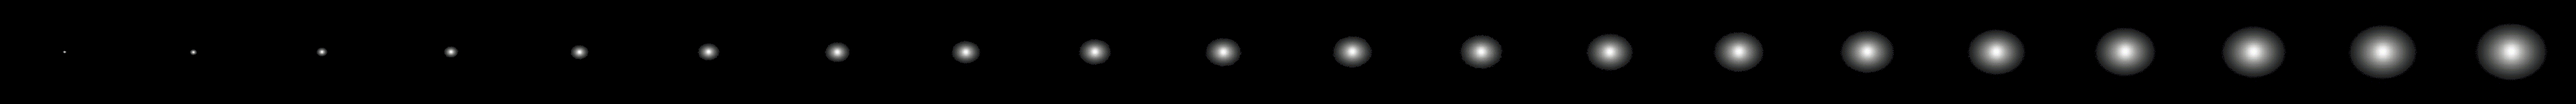
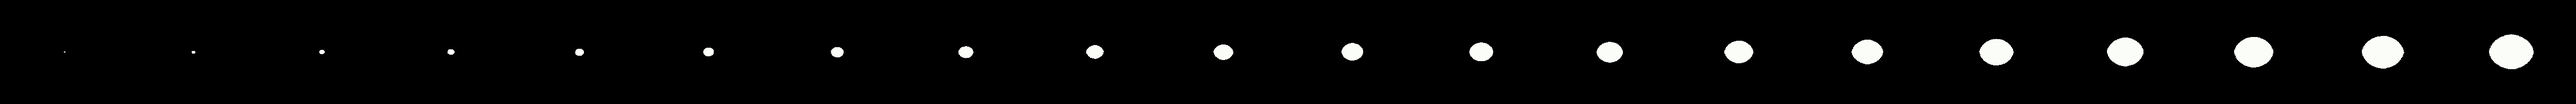
- Added Fu's modified lights. - Added Adam85's autogen.sh to warn about new build method. - Fixed position of light particles. - Added generation of shadows for the bullets and missles

diff --git a/src/NetPanzer/Weapons/Weapon.cpp b/src/NetPanzer/Weapons/Weapon.cpp
@@ -46,14 +46,17 @@ void Weapon::init()
 //    gShellPackedSurface.loadPAK("pics/particles/shells/pak/shells.pak");
 
     gMissleMediumPackedSurface.loadPNGSheet("pics/particles/missles/misslesMedium.png", 14, 14, 360);
+    gMissleMediumShadowSurface.createShadow(gMissleMediumPackedSurface);
     gMissleMediumPackedSurface.setColorkey();
 //    gMissleMediumPackedSurface.setOffsetCenter();
 
     gMissleSmallPackedSurface.loadPNGSheet("pics/particles/missles/misslesSmall.png", 14, 14, 360);
+    gMissleSmallShadowSurface.createShadow(gMissleSmallPackedSurface);
     gMissleSmallPackedSurface.setColorkey();
 //    gMissleSmallPackedSurface.setOffsetCenter();
 
     gShellPackedSurface.loadPNGSheet("pics/particles/shells/shells.png", 14, 14, 360);
+    gShellShadowSurface.createShadow(gShellPackedSurface);
     gShellPackedSurface.setColorkey();
 //    gShellPackedSurface.setOffsetCenter();
 

diff --git a/src/NetPanzer/Weapons/MissleWeapon.cpp b/src/NetPanzer/Weapons/MissleWeapon.cpp
@@ -43,11 +43,11 @@ MissleWeapon::MissleWeapon(UnitID owner, unsigned short owner_type_id, unsigned 
     // Set the correct missle type.
     if ( size ) {
         shell.setData(gMissleMediumPackedSurface);
-        shellShadow.setData(gMissleMediumPackedSurface);
+        shellShadow.setData(gMissleMediumShadowSurface);
 
     } else {
         shell.setData(gMissleSmallPackedSurface);
-        shellShadow.setData(gMissleSmallPackedSurface);
+        shellShadow.setData(gMissleSmallShadowSurface);
     }
 
     shell.setFrame(getGoalAngle(start, end));

diff --git a/src/NetPanzer/Particles/FlashParticle2D.cpp b/src/NetPanzer/Particles/FlashParticle2D.cpp
@@ -46,8 +46,9 @@ FlashParticle2D::FlashParticle2D(	const fXYZ  &pos,
 //---------------------------------------------------------------------------
 void FlashParticle2D::init()
 {
-    staticPackedFlash.loadPNGSheet("pics/particles/lights/flash2.png", 240, 149, 20);
+    staticPackedFlash.loadPNGSheet("pics/particles/lights/flash2.png", 240, 194, 20);
     staticPackedFlash.setColorkey();
+//    staticPackedFlash.setAlpha();
 //    staticPackedFlash.setOffsetCenter();
 //    staticPackedFlash.brigthenFrames();
 } // end FlashParticle2D::init

diff --git a/src/NetPanzer/Weapons/WeaponGlobals.hpp b/src/NetPanzer/Weapons/WeaponGlobals.hpp
@@ -27,8 +27,11 @@ extern int gMissleThrustForce;
 extern int gBulletVelocity;
 
 extern Surface gShellPackedSurface;
+extern Surface gShellShadowSurface;
 extern Surface gMissleSmallPackedSurface;
+extern Surface gMissleSmallShadowSurface;
 extern Surface gMissleMediumPackedSurface;
+extern Surface gMissleMediumShadowSurface;
 extern Surface gMissleThrustPackedSurface;
 extern Surface gMissleGroundLightPackedSurface;
 

diff --git a/src/NetPanzer/Weapons/ShellWeapon.cpp b/src/NetPanzer/Weapons/ShellWeapon.cpp
@@ -53,7 +53,7 @@ ShellWeapon::ShellWeapon(UnitID owner, unsigned short owner_type_id, unsigned sh
     shell.setDrawModeSolid();
 
     shellShadow.setDrawModeBlend(64); // dark little
-    shellShadow.setData(gShellPackedSurface);
+    shellShadow.setData(gShellShadowSurface);
     shellShadow.setFrame(getGoalAngle(start, end));
     shellShadow.setLayer(weaponShadowLayer);
 }

diff --git a/src/NetPanzer/Weapons/WeaponGlobals.cpp b/src/NetPanzer/Weapons/WeaponGlobals.cpp
@@ -27,8 +27,11 @@ int gMissleThrustForce = 5;
 int gBulletVelocity    = 60;
 
 Surface gShellPackedSurface;
+Surface gShellShadowSurface;
 Surface gMissleSmallPackedSurface;
+Surface gMissleSmallShadowSurface;
 Surface gMissleMediumPackedSurface;
+Surface gMissleMediumShadowSurface;
 Surface gMissleThrustPackedSurface;
 Surface gMissleGroundLightPackedSurface;
 
